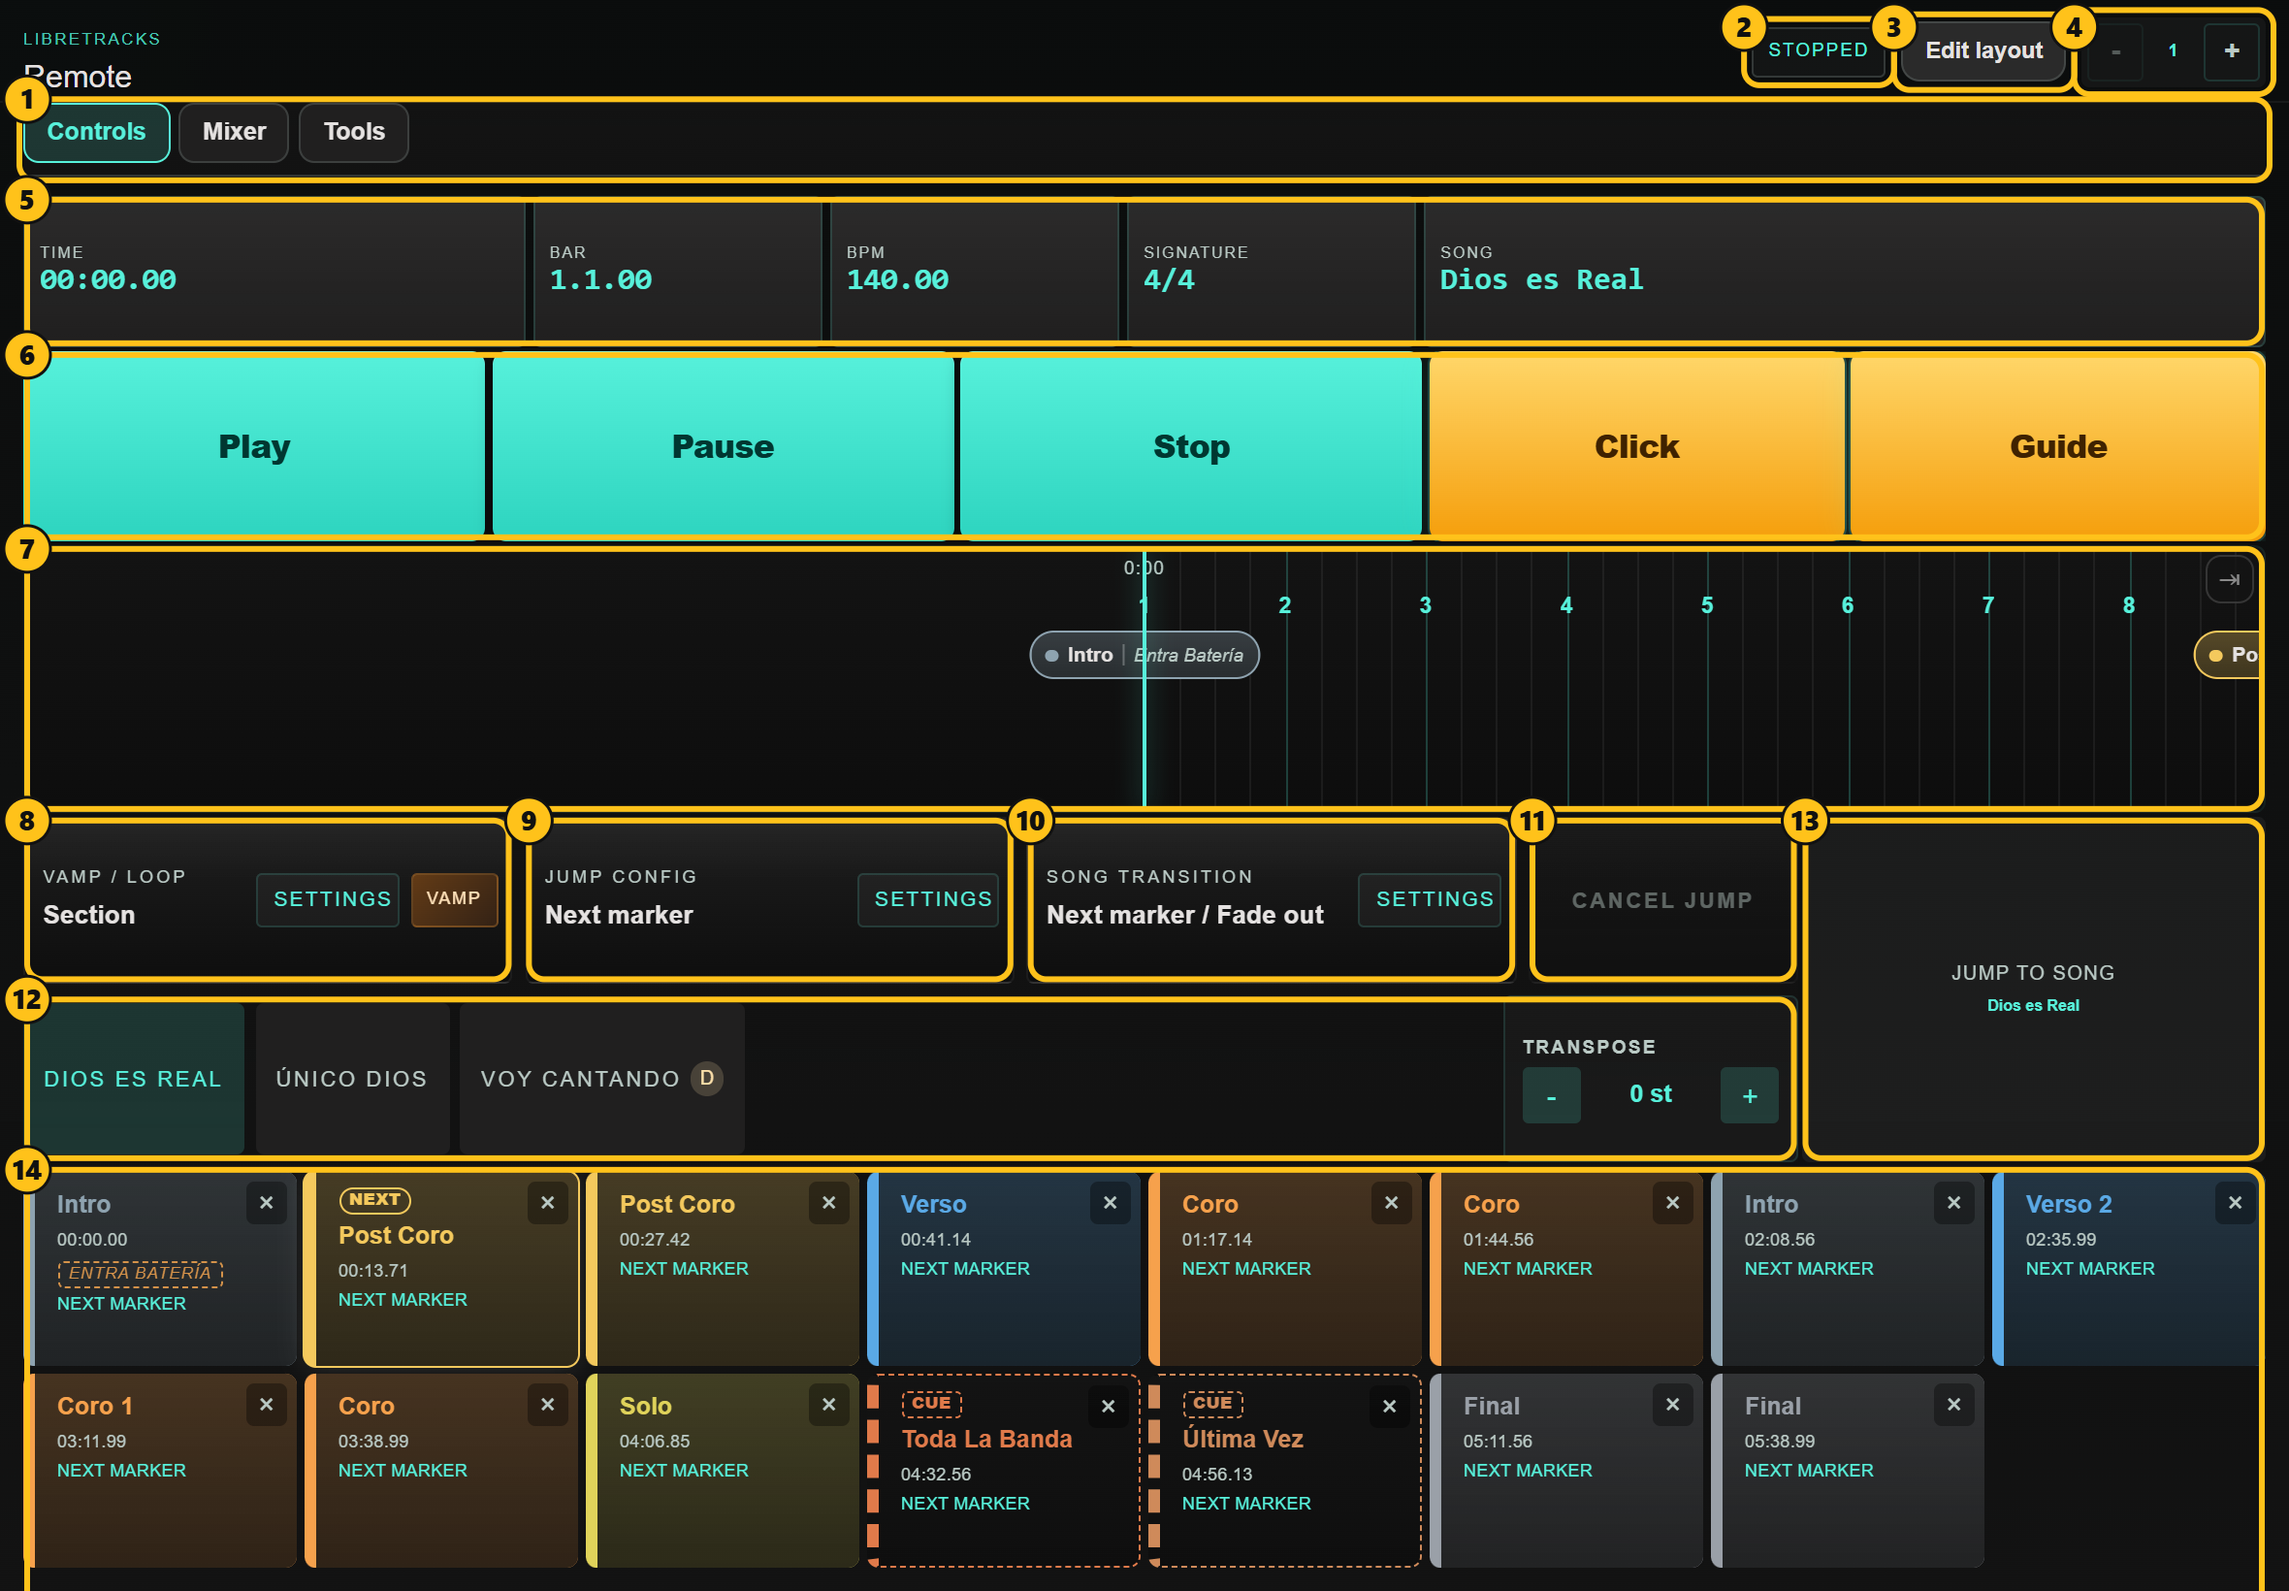
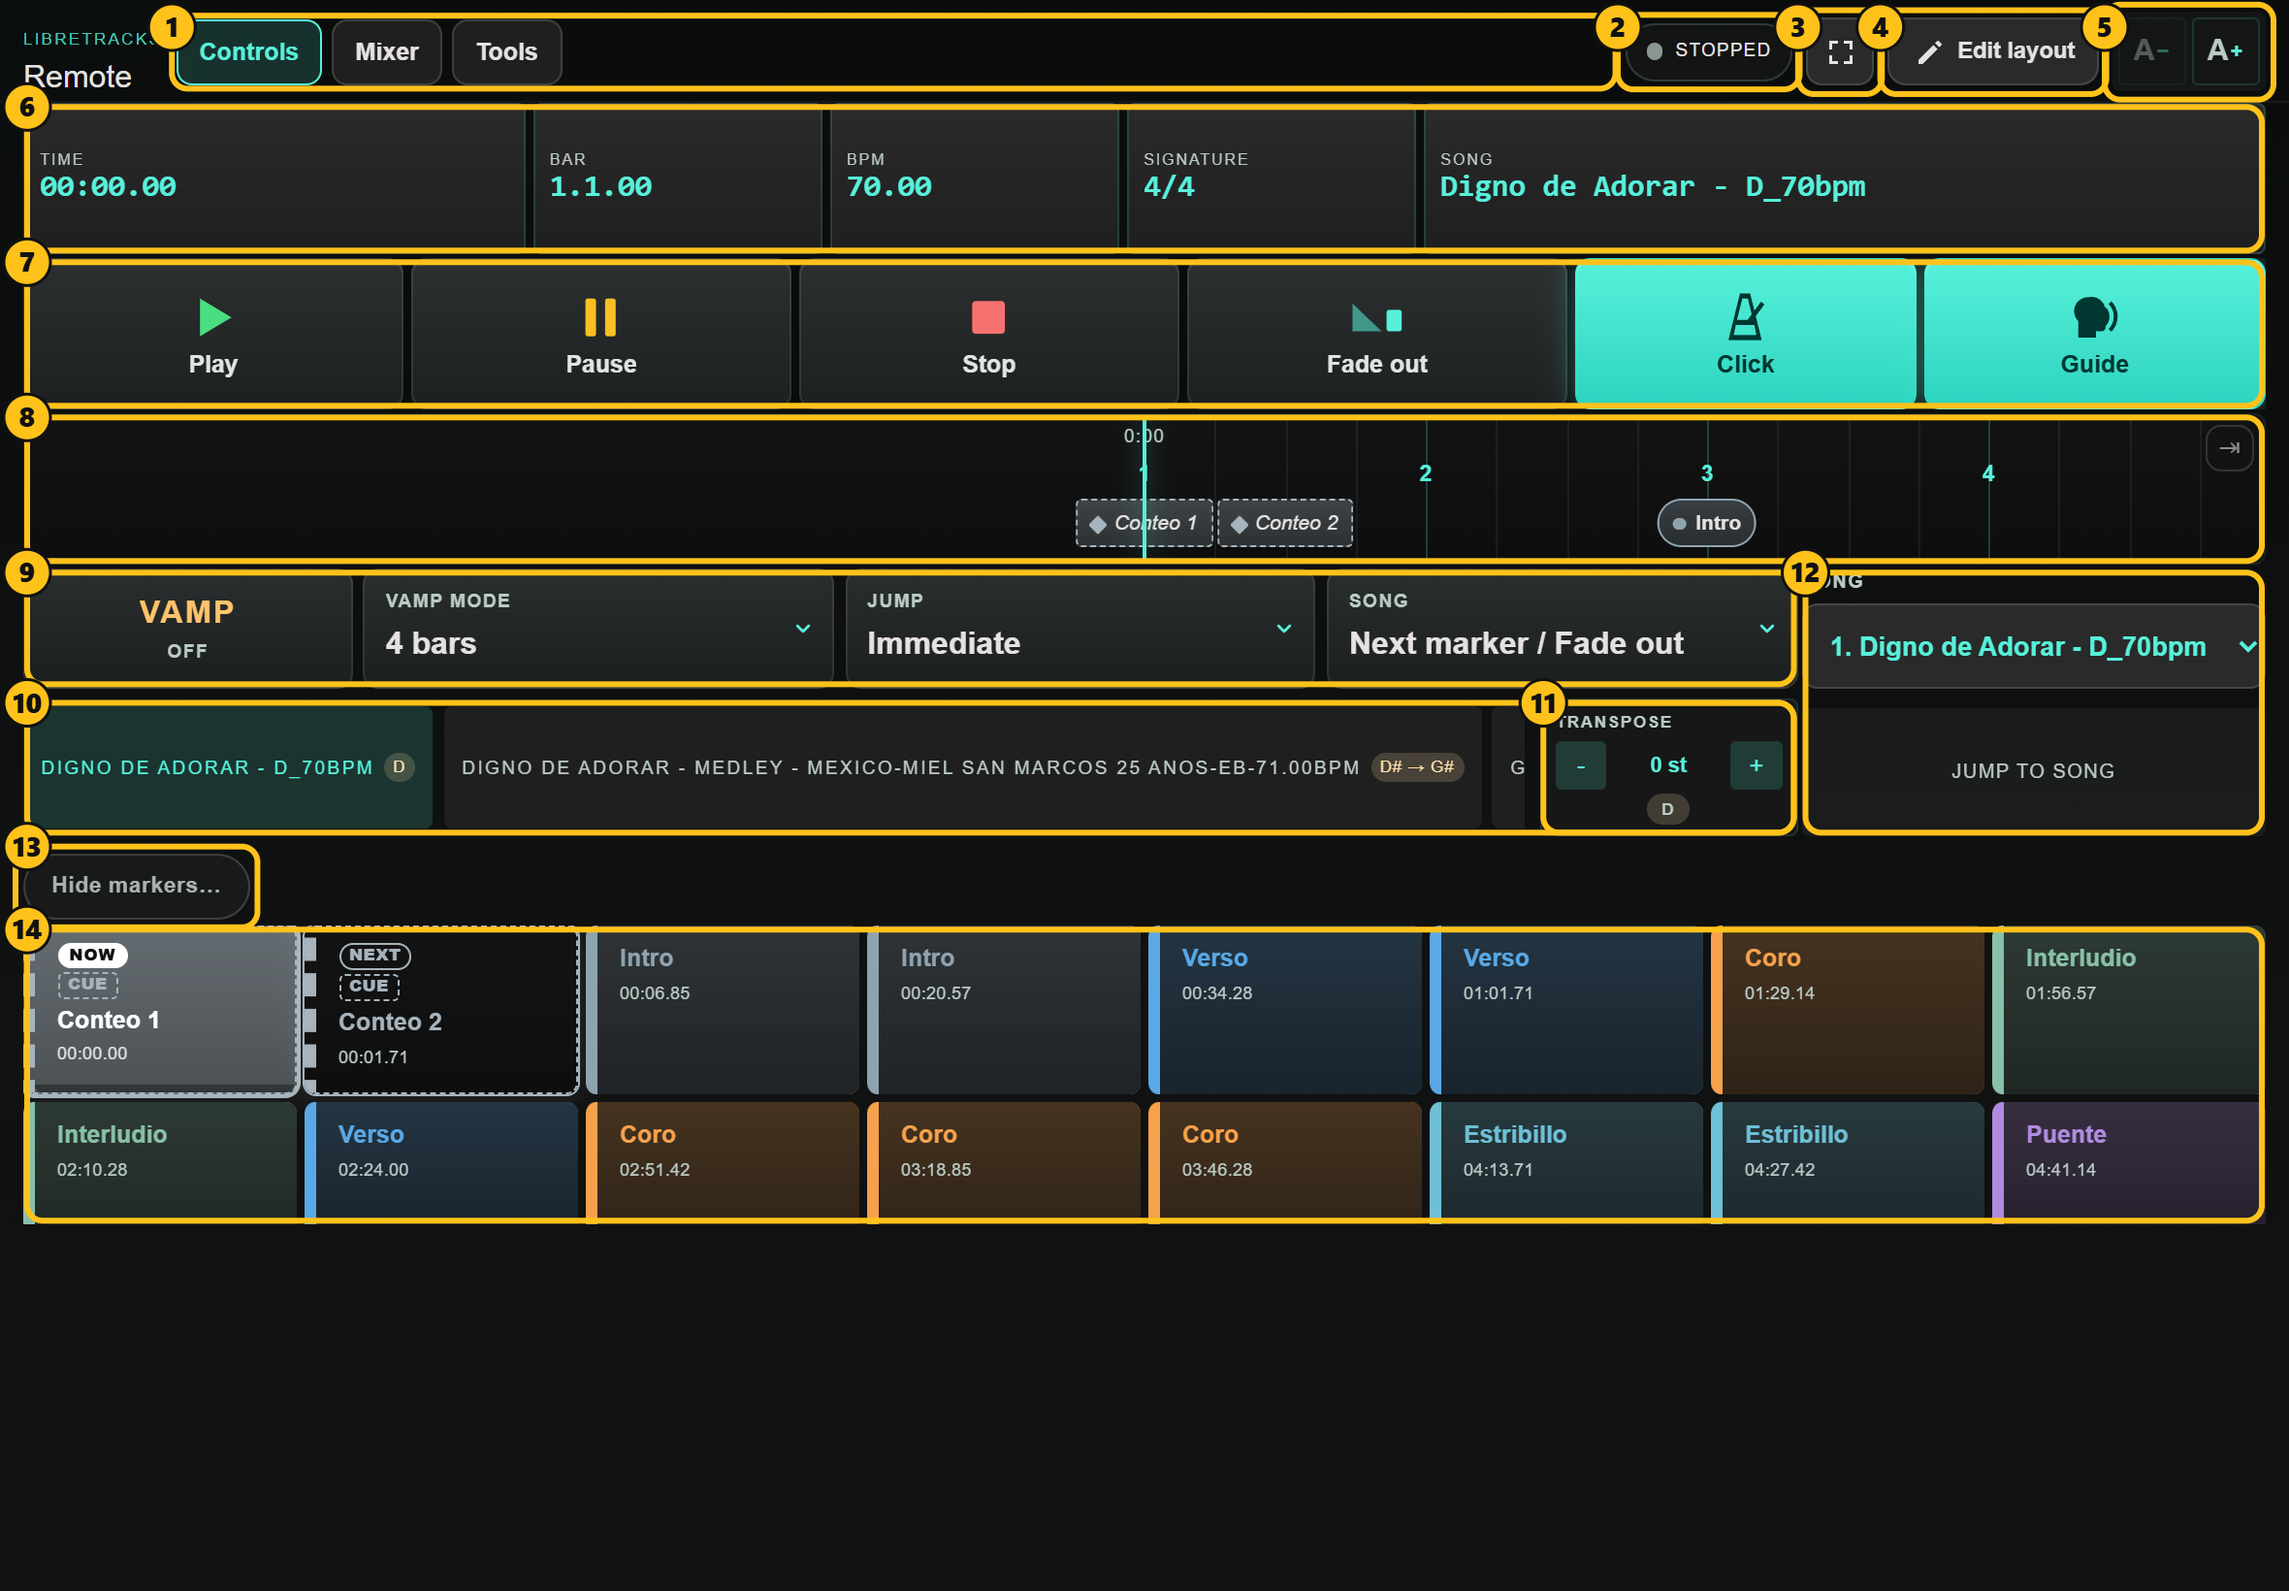
chore: release v1.17.0
Notas de la versión, versión 1.17.0 en todos los paquetes (versionCode de
Android 1017000), guía con «Analizar todas las canciones», capturas de la
pestaña Redundancia y el Remote renovado (leyendas y capturas nuevas en
español e inglés).

diff --git a/tests/e2e/specs/guide-shots.e2e.ts b/tests/e2e/specs/guide-shots.e2e.ts
@@ -2346,6 +2346,78 @@ describe("user guide screenshots", function () {
     await AppPage.resetShell();
   });
 
+  it("novedades 1.17: redundancy settings, analyze all songs", async () => {
+    await ensureSession();
+    await AppPage.resetShell();
+
+    // Redundancy: the settings tab, one capture per screenful (it is long:
+    // role, main, pilot tone and backup sections). Not added to the
+    // «settings tabs» step so settings-overview keeps its numbering.
+    await AppPage.openSettings();
+    const tab = await AppPage.settingsTab("redundancy");
+    if (await tab.isExisting()) {
+      await tab.click();
+      await browser.pause(1200);
+      // The PINs, addresses and trusted machine names are the REAL ones of
+      // whoever runs this.
+      await runInPage(() => {
+        document
+          .querySelectorAll<HTMLElement>(".lt-redundancy-settings input:not([type]), .lt-redundancy-settings input[type='text'], .lt-redundancy-settings input[inputmode], .lt-redundancy-trusted li")
+          .forEach((el) => {
+            el.style.filter = "blur(5px)";
+          });
+      });
+      const pages = await runInPage(() => {
+        const scroller = document.querySelector(".lt-settings-tab-panels");
+        if (!scroller) return 1;
+        scroller.scrollTop = 0;
+        const overflow = scroller.scrollHeight - scroller.clientHeight;
+        if (overflow <= 8) return 1;
+        return Math.min(4, 1 + Math.ceil(overflow / (scroller.clientHeight - 80)));
+      });
+      for (let page = 0; page < pages; page++) {
+        await runInPage((p: number) => {
+          const scroller = document.querySelector(".lt-settings-tab-panels");
+          if (scroller) scroller.scrollTop = p * (scroller.clientHeight - 80);
+        }, page);
+        await browser.pause(400);
+        await shot(`redundancy-settings-${page + 1}`, { selector: ".lt-settings-tab-panels", margin: 4 });
+      }
+    } else {
+      console.log("[guideshots] SKIPPED redundancy-settings: no tab");
+    }
+    await browser.keys(["Escape"]);
+    await browser.pause(600);
+    await AppPage.resetShell();
+
+    // Analyze all songs: the setup, from the File menu (never run here: it
+    // would rewrite the session copy's markers and take minutes).
+    const fileMenu = `${tour("topbar-file-menu")} .lt-top-menu-trigger`;
+    await (await $(fileMenu)).click();
+    await browser.pause(600);
+    await (
+      await $(await tagByText(".lt-top-menu-dropdown button", L("Analizar todas las canciones"), "analyze-all-item"))
+    ).click();
+    await browser.pause(1200);
+    const batch = ".lt-batch-analysis-modal";
+    if (await rectOf(batch)) {
+      await annotatedShot(
+        "song-analysis-batch",
+        [
+          { selector: `${batch} .lt-batch-analysis-all`, n: 1, pad: 3 },
+          { selector: `${batch} .lt-batch-analysis-list`, n: 2, pad: 3 },
+          { selector: `${batch} .lt-export-modal-actions .is-primary`, n: 3, pad: 3 },
+        ],
+        { crop: { selector: batch, margin: 12 } },
+      );
+      await browser.keys(["Escape"]);
+      await browser.pause(600);
+    } else {
+      console.log("[guideshots] SKIPPED song-analysis-batch: no modal");
+    }
+    await AppPage.resetShell();
+  });
+
   it("mobile 1.15: selection bar (phone layout)", async () => {
     const phoneDir = path.join(repoRoot, "apps", "website", "public", "guide", UI_LANG === "en" ? "mobile-en" : "mobile");
     mkdirSync(phoneDir, { recursive: true });

diff --git a/tests/e2e/specs/remote-shots.e2e.ts b/tests/e2e/specs/remote-shots.e2e.ts
@@ -176,18 +176,18 @@ return (${fn.toString()}).apply(null, arguments);`;
       await shot("remote-controls", [
         { selector: ".layout-tabbar", n: 1, pad: 2 },
         { selector: ".status-pill", n: 2 },
-        { selector: ".layout-edit-button", n: 3 },
-        { selector: ".remote-size-stepper", n: 4 },
-        { selector: ".layout-widget-type-readouts", n: 5, pad: -2 },
-        { selector: ".layout-widget-type-transportButtons", n: 6, pad: -2 },
-        { selector: ".layout-widget-type-timeline", n: 7, pad: -2 },
-        { selector: ".transport-control-card-group", nth: 0, n: 8, pad: -2 },
-        { selector: ".transport-control-card-group", nth: 1, n: 9, pad: -2 },
-        { selector: ".transport-control-card-song", n: 10, pad: -2 },
-        { selector: ".remote-global-cancel-button", n: 11, pad: -2 },
-        { selector: ".region-actions-row", n: 12, pad: -2 },
-        { selector: ".jump-to-song-button", n: 13, pad: -2 },
-        { selector: ".layout-widget-type-markerGrid", n: 14, pad: -2 },
+        { selector: ".immersive-button", n: 3 },
+        { selector: ".layout-edit-button", n: 4 },
+        { selector: ".remote-size-stepper", n: 5 },
+        { selector: ".layout-widget-type-readouts", n: 6, pad: -2 },
+        { selector: ".layout-widget-type-transportButtons", n: 7, pad: -2 },
+        { selector: ".layout-widget-type-timeline", n: 8, pad: -2 },
+        { selector: ".deck-compact-keys", n: 9, pad: -2 },
+        { selector: ".region-actions-row", n: 10, pad: -2 },
+        { selector: ".selected-region-transpose", n: 11, pad: -2 },
+        { selector: ".layout-widget-type-jumpToSongButton", n: 12, pad: -2 },
+        { selector: ".marker-grid-toggle", n: 13 },
+        { selector: ".marker-grid", n: 14, pad: -2 },
       ]);
 
       // Mixer.
@@ -199,7 +199,9 @@ return (${fn.toString()}).apply(null, arguments);`;
         { selector: ".pan-section", n: 4 },
         { selector: ".volume-section", n: 5 },
         { selector: ".toggle-row", n: 6 },
-        { selector: ".mixer-strip.is-folder", n: 7, pad: -2 },
+        // Only when the session has a folder track (the guide explains
+        // folders below the legend, so the number is optional).
+        ...((await rectIn(".mixer-strip.is-folder")) ? [{ selector: ".mixer-strip.is-folder", n: 7, pad: -2 }] : []),
       ]);
 
       // Tools.

diff --git a/docs/releases/v1.17.0.md b/docs/releases/v1.17.0.md
@@ -1,0 +1,19 @@
+## Novedades de v1.17.0
+
+- 🛟 Redundancia: lleva dos LibreTracks con la misma sesión. El respaldo sigue al principal y suena a la vez, en el mismo sitio, y si el equipo principal falla pasas al respaldo sin parar la canción. El respaldo te dice si su sesión coincide con la del principal y puede copiarla él mismo (solo viaja el audio que le falta), las tablets y móviles conectados pasan solos al respaldo, y hay un tono piloto para conmutadores. Cómo: Configuración → "Redundancia", en los dos equipos.
+- 🧩 Arreglos: cada bloque de un arreglo se puede editar por separado. Mueve o recorta clips, añade un automatismo, un MIDI o un aviso solo en el segundo coro sin tocar el primero ni la canción original, y sin pasar por "Editar original".
+- 📱 Remote renovado: en el móvil y la tablet sale por fin su propio diseño, con un mixer compacto, paneles que se pliegan, botones de transporte nuevos, una cabecera que muestra si está conectado y modo pantalla completa. La tarjeta de la sección que está sonando se marca, y el editor de layouts ya se puede usar desde el móvil.
+- 🔍 Analizar todas las canciones de la sesión de una vez, y después revisar cada propuesta o aplicarlas todas. Cómo: Archivo → "Analizar todas las canciones…".
+- ⚡ Las sesiones con audio a otra frecuencia que la de tu tarjeta de sonido se preparan mucho más rápido, y "Preparando audio" ya no se queda congelado en preparaciones largas. Si no queda espacio en el disco para preparar el audio, LibreTracks te avisa en vez de dejar pistas en silencio.
+- 📦 Importar un paquete de canción: si no cabe donde está el cursor va al final del setlist, el aviso dice dónde ha quedado y el indicador muestra en qué paso va.
+- 🔧 Y además: la app ya no deja de abrirse si otro programa usa el puerto del remote, en Android abrir archivos de la nube o de un USB ya no congela la app y "Importar .ltpkg" de Compacta y Setlist usa el selector del sistema, "Analizar todas" coloca las marcas donde está cada canción ahora, y los controles de las pistas ya no se ven a través de la pantalla de carga.
+
+## What's New in v1.17.0
+
+- 🛟 Redundancy: run two LibreTracks apps with the same session. The backup follows the main one and plays along at the same spot, and if the main computer fails you switch to the backup without stopping the song. The backup tells you whether its session matches the main one and can copy it over by itself (only the missing audio travels), connected tablets and phones move to the backup on their own, and there is a pilot tone for hardware switchers. How: Settings → "Redundancy", on both computers.
+- 🧩 Arrangements: each block of an arrangement can be edited on its own. Move or trim clips, add an automation, a MIDI message or a cue only in the second chorus without touching the first one or the original song, and without going through "Edit original".
+- 📱 Remote revamped: phones and tablets finally get their own layout, with a compact mixer, panels that fold away, new transport buttons, a header that shows whether it is connected and full-screen mode. The card of the section that is playing is highlighted, and the layout editor now works on a phone.
+- 🔍 Analyze every song in the session at once, then review each proposal or apply them all. How: File → "Analyze all songs…".
+- ⚡ Sessions with audio at a different sample rate than your sound card get ready much faster, and "Preparing audio" no longer freezes during long preparations. If there is no disk space left to prepare the audio, LibreTracks tells you instead of leaving tracks silent.
+- 📦 Importing a song package: if it does not fit at the playhead it goes to the end of the setlist, the notice says where it landed and the indicator shows which step it is on.
+- 🔧 Also: the app no longer fails to open if another program is using the remote's port, on Android opening files from the cloud or a USB drive no longer freezes the app and "Import .ltpkg" in Compact and Setlist uses the system picker, "Analyze all" places markers where each song is now, and track controls no longer show through the loading screen.

diff --git a/docs/RELEASE_PROCESS.md b/docs/RELEASE_PROCESS.md
@@ -34,11 +34,11 @@ features that are built but hidden (no UI at all while their flag is
 `false`). Check it every release: a feature planned for this version is
 turned on here, together with the guard test next to it
 (`featureFlags.test.ts`), in the release commit. Commits of a hidden feature
-do NOT go in the release notes. As of 1.16.0 every flag is on:
+do NOT go in the release notes. As of 1.17.0 every flag is on:
 `lyrics` and `songAnalysis` shipped in 1.15.0, `networkSessions`
 (LibreTracks apps joining a host over the LAN) and `songTemplates` (songs
 from a template, stems organised on drop, «one folder per song» layout) in
-1.16.0.
+1.16.0, `redundancy` (a backup LibreTracks following a main one) in 1.17.0.
 
 ## 2. Commit pending work (optional)
 
